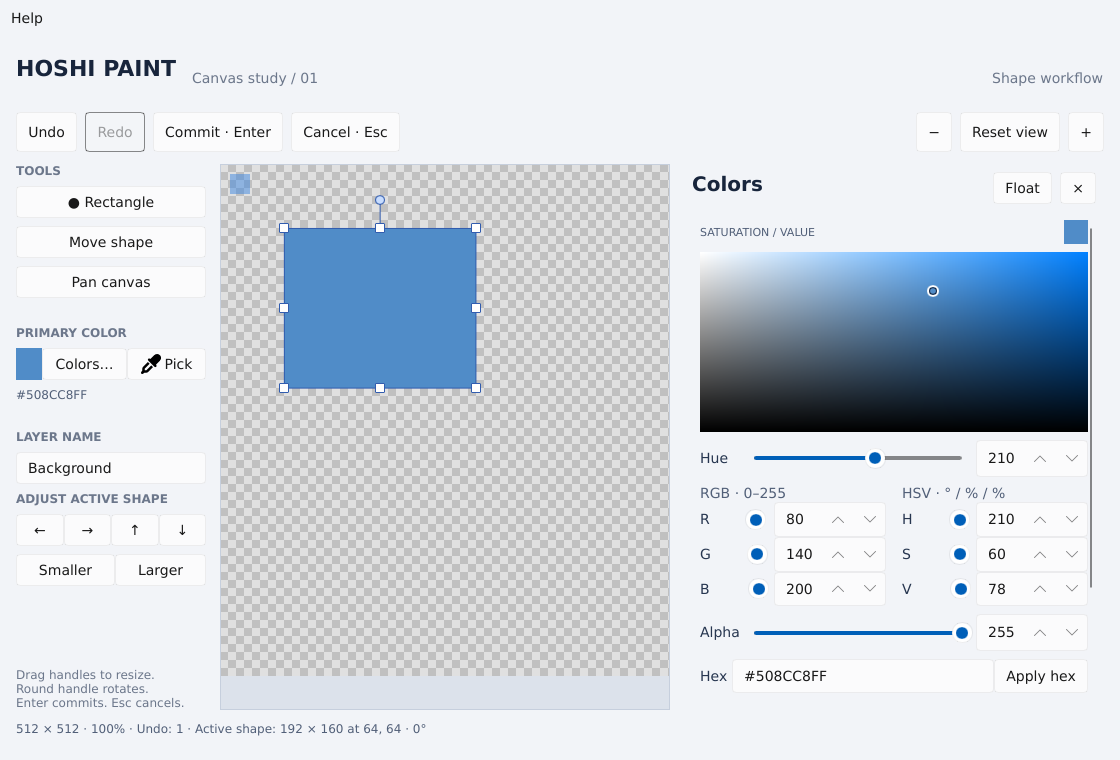
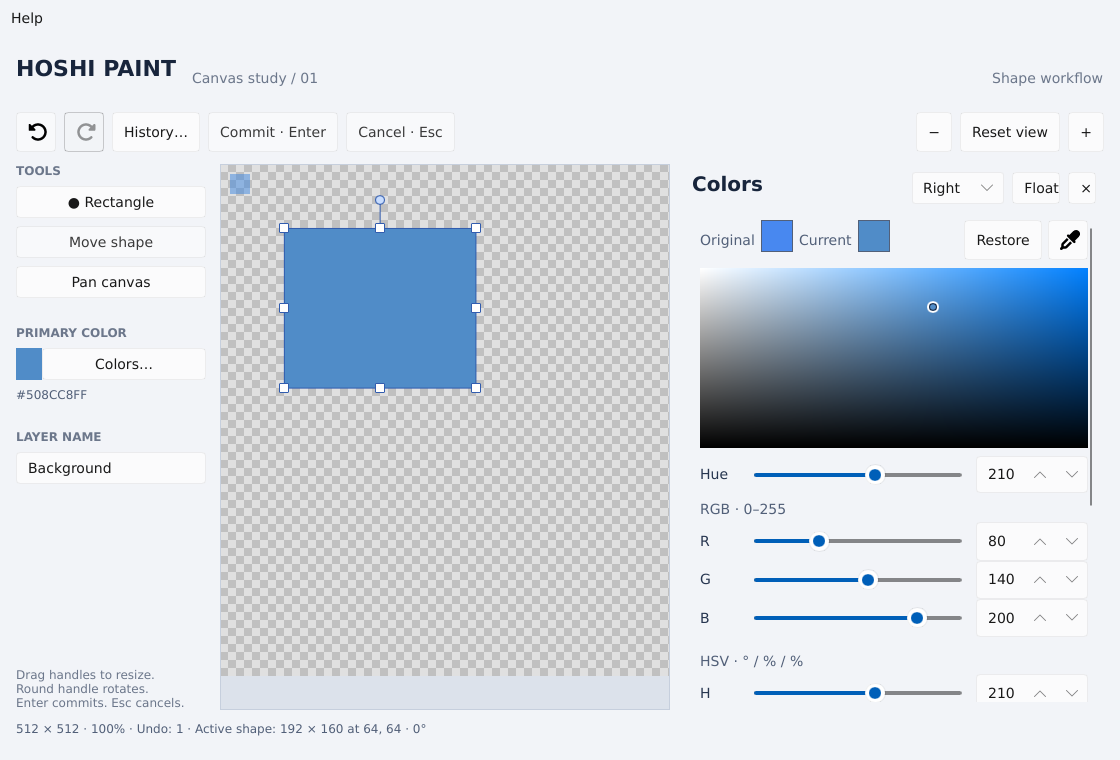
Preserve original colors and make narrow color controls readable

diff --git a/spikes/desktop-canvas/tests/color_comparison.rs b/spikes/desktop-canvas/tests/color_comparison.rs
@@ -1,0 +1,121 @@
+use hoshi_canvas_spike::create_app_with_colors;
+use hoshi_controller::Color;
+use i_slint_backend_testing::ElementHandle;
+use slint::{ComponentHandle, LogicalPosition, LogicalSize};
+
+fn slint_color(c: Color) -> slint::Color {
+    slint::Color::from_argb_u8(c.a, c.r, c.g, c.b)
+}
+
+#[test]
+fn original_survives_live_edits_and_docking_and_restore_keeps_shape_editable() {
+    slint::platform::set_platform(Box::new(i_slint_backend_testing::TestingBackend::new(
+        i_slint_backend_testing::TestingBackendOptions {
+            mock_time: true,
+            threading: false,
+            renderer_name: Some("software".into()),
+        },
+    )))
+    .unwrap();
+    let (ui, state, picker) = create_app_with_colors().unwrap();
+    ui.show().unwrap();
+    let original = Color::rgba(24, 80, 140, 96);
+    picker.invoke_set_rgba(24, 80, 140, 96);
+    ui.invoke_pointer_down(40.0, 40.0);
+    ui.invoke_pointer_move(140.0, 100.0);
+    ui.invoke_pointer_up(140.0, 100.0);
+    ui.invoke_show_colors();
+    let shape = state.borrow().document().active_shape().unwrap();
+    assert_eq!(picker.get_original_color(), slint_color(original));
+    picker.window().take_snapshot().unwrap();
+    let position = LogicalPosition::new(
+        picker.get_red_slider_left() + picker.get_red_slider_width() * 0.9,
+        picker.get_red_slider_top() + picker.get_red_slider_height() * 0.5,
+    );
+    picker
+        .window()
+        .dispatch_event(slint::platform::WindowEvent::PointerPressed {
+            position,
+            button: slint::platform::PointerEventButton::Left,
+        });
+    picker
+        .window()
+        .dispatch_event(slint::platform::WindowEvent::PointerReleased {
+            position,
+            button: slint::platform::PointerEventButton::Left,
+        });
+    assert_ne!(state.borrow().primary_color(), original);
+    assert_eq!(picker.get_original_color(), slint_color(original));
+    let restore =
+        ElementHandle::find_by_accessible_label(picker.as_ref(), "Restore original color")
+            .next()
+            .unwrap();
+    assert_eq!(restore.accessible_enabled(), Some(true));
+    restore.mock_single_click(slint::platform::PointerEventButton::Left);
+    assert_eq!(state.borrow().primary_color(), original);
+    assert_eq!(state.borrow().composite()[60 * 512 + 60], original);
+    assert_eq!(restore.accessible_enabled(), Some(false));
+    ui.invoke_set_colors_placement(1);
+    picker.invoke_set_hsv(120.0, 100.0, 100.0);
+    assert_eq!(state.borrow().primary_color(), Color::rgba(0, 255, 0, 96));
+    assert_eq!(ui.get_color_original(), slint_color(original));
+    ui.invoke_restore_original_color();
+    assert_eq!(state.borrow().primary_color(), original);
+    ui.invoke_set_colors_placement(0);
+    assert_eq!(picker.get_original_color(), slint_color(original));
+    assert_eq!(state.borrow().document().active_shape(), Some(shape));
+    assert_eq!(state.borrow().document().undo_len(), 0);
+    picker.invoke_close_picker();
+    picker.invoke_set_rgba(1, 2, 3, 255);
+    picker.set_hex_value("unapplied draft".into());
+    ui.invoke_show_colors();
+    assert_eq!(
+        picker.get_original_color(),
+        slint_color(Color::rgba(1, 2, 3, 255))
+    );
+    assert_eq!(picker.get_hex_value(), "#010203FF");
+    picker.window().take_snapshot().unwrap();
+    let hex = ElementHandle::find_by_accessible_label(picker.as_ref(), "Hex RGB or RGBA color")
+        .next()
+        .unwrap();
+    hex.mock_single_click(slint::platform::PointerEventButton::Left);
+    picker.set_hex_value("#ABC".into());
+    assert_eq!(state.borrow().primary_color(), Color::rgba(1, 2, 3, 255));
+    picker
+        .window()
+        .dispatch_event(slint::platform::WindowEvent::KeyPressed {
+            text: slint::platform::Key::Return.into(),
+        });
+    picker
+        .window()
+        .dispatch_event(slint::platform::WindowEvent::KeyReleased {
+            text: slint::platform::Key::Return.into(),
+        });
+    assert_eq!(
+        state.borrow().primary_color(),
+        Color::rgba(170, 187, 204, 255)
+    );
+    assert_eq!(
+        picker.get_original_color(),
+        slint_color(Color::rgba(1, 2, 3, 255))
+    );
+    // Narrow panels use one column, with readable aligned tracks rather than
+    // collapsed handles that can be mistaken for separate radio buttons.
+    picker.window().set_size(LogicalSize::new(380.0, 720.0));
+    picker.window().take_snapshot().unwrap();
+    assert!(picker.get_red_slider_width() > 170.0);
+    assert_eq!(picker.get_red_slider_left(), picker.get_green_slider_left());
+    assert_eq!(picker.get_red_slider_left(), picker.get_blue_slider_left());
+    assert_eq!(
+        picker.get_red_slider_width(),
+        picker.get_green_slider_width()
+    );
+    assert_eq!(
+        picker.get_red_slider_width(),
+        picker.get_blue_slider_width()
+    );
+    picker.invoke_restore_original();
+    assert_eq!(state.borrow().primary_color(), Color::rgba(1, 2, 3, 255));
+    assert!(state.borrow().document().active_shape().is_some());
+    assert_eq!(state.borrow().document().undo_len(), 0);
+}

diff --git a/spikes/desktop-canvas/src/colors.rs b/spikes/desktop-canvas/src/colors.rs
@@ -4,7 +4,12 @@ use hoshi_controller::{
     color::{self, Hsv},
 };
 use slint::ComponentHandle;
-use std::{cell::RefCell, rc::Rc, sync::mpsc::TryRecvError, time::Duration};
+use std::{
+    cell::{Cell, RefCell},
+    rc::Rc,
+    sync::mpsc::TryRecvError,
+    time::Duration,
+};
 
 fn synchronize(picker: &ColorPickerWindow, value: Color, override_hsv: Option<Hsv>) {
     let mut hsv = override_hsv.unwrap_or_else(|| color::color_to_hsv(value));
@@ -42,6 +47,8 @@ fn synchronize(picker: &ColorPickerWindow, value: Color, override_hsv: Option<Hs
     picker.set_saturation(hsv.saturation as f32);
     picker.set_brightness(hsv.value as f32);
     picker.set_hex_value(color::format_hex(value).into());
+    picker
+        .set_current_description(format!("Current color\n{}", describe_swatch(value, None)).into());
     picker.set_current_color(slint::Color::from_argb_u8(
         value.a, value.r, value.g, value.b,
     ));
@@ -52,6 +59,25 @@ pub(super) fn bind_picker(
     controller: SharedController,
 ) -> Result<Rc<ColorPickerWindow>, slint::PlatformError> {
     let picker = Rc::new(ColorPickerWindow::new()?);
+    let original = Rc::new(Cell::new(controller.borrow().primary_color()));
+    let (weak, reference) = (picker.as_weak(), original.clone());
+    picker.on_restore_original(move || {
+        if let Some(picker) = weak.upgrade() {
+            let color = reference.get();
+            picker.invoke_set_rgba(
+                color.r.into(),
+                color.g.into(),
+                color.b.into(),
+                color.a.into(),
+            );
+        }
+    });
+    let weak = picker.as_weak();
+    ui.on_restore_original_color(move || {
+        if let Some(picker) = weak.upgrade() {
+            picker.invoke_restore_original();
+        }
+    });
     let swatches = [
         (72, 136, 240, "Blue"),
         (232, 104, 92, "Coral"),
@@ -116,6 +142,7 @@ pub(super) fn bind_picker(
         }
     });
     let (main, weak, state) = (ui.as_weak(), picker.as_weak(), controller.clone());
+    let reference = original.clone();
     ui.on_set_colors_placement(move |placement| {
         if let (Some(ui), Some(p)) = (main.upgrade(), weak.upgrade()) {
             if ui.get_modal_visible() {
@@ -125,6 +152,9 @@ pub(super) fn bind_picker(
                 let mut c = state.borrow_mut();
                 c.pointer_up().expect("finish gesture before docking");
                 c.set_aspect_lock(false).expect("gesture ended");
+            }
+            if !ui.get_colors_visible() {
+                begin_comparison(&ui, &p, &reference, state.borrow().primary_color());
             }
             let placement = placement.clamp(0, 4);
             ui.set_colors_placement(placement);
@@ -160,7 +190,7 @@ pub(super) fn bind_picker(
     });
     synchronize(&picker, controller.borrow().primary_color(), None);
     picker.set_has_active_shape(controller.borrow().document().active_shape().is_some());
-    sync_docked(ui, &picker);
+    begin_comparison(ui, &picker, &original, original.get());
     let weak = picker.as_weak();
     ui.on_hide_colors(move || {
         if let Some(p) = weak.upgrade() {
@@ -196,10 +226,14 @@ pub(super) fn bind_picker(
         }
     });
     let (colors, main, state) = (picker.clone(), ui.as_weak(), controller.clone());
+    let reference = original.clone();
     ui.on_show_colors(move || {
         if let Some(ui) = main.upgrade() {
             if ui.get_modal_visible() {
                 return;
+            }
+            if !ui.get_colors_visible() {
+                begin_comparison(&ui, &colors, &reference, state.borrow().primary_color());
             }
             // Switching to our color window must preserve the editable preview,
             // even if native pointer release/capture has not settled yet.
@@ -429,7 +463,29 @@ fn describe_swatch(value: Color, name: Option<&str>) -> String {
     )
 }
 
+fn begin_comparison(
+    ui: &AppWindow,
+    picker: &ColorPickerWindow,
+    original: &Cell<Color>,
+    value: Color,
+) {
+    original.set(value);
+    // A new comparison also discards any hex draft that was never accepted.
+    synchronize(picker, value, None);
+    picker.set_error("".into());
+    picker.set_original_color(slint::Color::from_argb_u8(
+        value.a, value.r, value.g, value.b,
+    ));
+    picker.set_original_description(
+        format!("Original color\n{}", describe_swatch(value, None)).into(),
+    );
+    sync_docked(ui, picker);
+}
+
 fn sync_docked(ui: &AppWindow, picker: &ColorPickerWindow) {
+    ui.set_color_original(picker.get_original_color());
+    ui.set_color_original_description(picker.get_original_description());
+    ui.set_color_current_description(picker.get_current_description());
     ui.set_color_r(picker.get_red());
     ui.set_color_g(picker.get_green());
     ui.set_color_b(picker.get_blue());

diff --git a/spikes/desktop-canvas/tests/docking.rs b/spikes/desktop-canvas/tests/docking.rs
@@ -37,7 +37,10 @@ fn colors_float_dock_reopen_and_pointer_edits_share_one_editable_shape() {
     assert!(ui.get_colors_docked() && ui.get_colors_visible());
     assert!(!picker.window().is_visible());
     ui.window().take_snapshot().unwrap();
-    assert!(ui.get_docked_red_width() > 10.0);
+    assert!(
+        ui.get_docked_red_width() > 170.0,
+        "narrow dock must have a readable full-width slider"
+    );
     click(
         ui.window(),
         ui.get_docked_red_left() + ui.get_docked_red_width() * 0.9,
@@ -47,7 +50,26 @@ fn colors_float_dock_reopen_and_pointer_edits_share_one_editable_shape() {
     assert_ne!(selected.r, 12, "docked slider must route actual input");
     assert_eq!(state.borrow().composite()[60 * 512 + 60], selected);
     assert_eq!(picker.get_red(), i32::from(selected.r));
+    // Narrow panels stack channels; scroll their body to the palette instead
+    // of assuming every control fits in the visible height.
+    let viewport = state.borrow().viewport();
+    ui.window()
+        .dispatch_event(slint::platform::WindowEvent::PointerScrolled {
+            position: slint::LogicalPosition::new(
+                ui.get_colors_host_left() + ui.get_colors_host_width() - 10.0,
+                ui.get_colors_host_top() + 100.0,
+            ),
+            delta_x: 0.0,
+            delta_y: -500.0,
+        });
+    i_slint_backend_testing::mock_elapsed_time(std::time::Duration::from_millis(1000));
+    assert_eq!(
+        state.borrow().viewport(),
+        viewport,
+        "panel scrolling must not pan the canvas"
+    );
     let snapshot = ui.window().take_snapshot().unwrap();
+    assert!(ui.get_docked_swatches_top() + 40.0 < snapshot.height() as f32);
     let x = ui.get_docked_swatches_left() as u32 + 20;
     let y = ui.get_docked_swatches_top() as u32 + 20;
     let pixel = snapshot.as_slice()[(y * snapshot.width() + x) as usize];

diff --git a/spikes/desktop-canvas/src/lib.rs b/spikes/desktop-canvas/src/lib.rs
@@ -87,6 +87,10 @@ slint::slint! {
         in property <float> color-h;
         in property <float> color-s;
         in property <float> color-v;
+        in property <color> color-original;
+        in property <string> color-original-description;
+        in property <string> color-current-description;
+        callback restore-original-color();
         in property <string> color-hex;
         in property <string> color-error;
         in property <image> color-sv;
@@ -194,7 +198,6 @@ slint::slint! {
                             Rectangle { background: root.primary-color; }
                         }
                         Button { text: "Colors…"; clicked => { root.show-colors(); } }
-                        Button { icon: @image-url("../icons/eye-dropper.svg"); width: 40px; accessible-label: "Color Picker"; Tooltip { text: @markdown("Color Picker"); } clicked => { root.pick-screen(); } }
                     }
                     Text { text: root.primary-hex; color: #526079; font-size: 12px; }
                     Rectangle { height: 12px; }
@@ -346,6 +349,10 @@ slint::slint! {
                     hue: root.color-h; saturation: root.color-s; brightness: root.color-v;
                     hex-value: root.color-hex; error: root.color-error;
                     sv-image: root.color-sv; current-color: root.primary-color;
+                    original-color: root.color-original;
+                    original-description: root.color-original-description;
+                    current-description: root.color-current-description;
+                    restore-original => { root.restore-original-color(); }
                     has-active-shape: root.has-shape; screen-picking: root.screen-picking;
                     set-rgba(r,g,b,a) => { root.edit-rgba(r,g,b,a); }
                     set-hsv(h,s,v) => { root.edit-hsv(h,s,v); }

diff --git a/spikes/desktop-canvas/tests/tooltips.rs b/spikes/desktop-canvas/tests/tooltips.rs
@@ -29,11 +29,6 @@ fn swatch_hover_opens_rich_tooltip_without_changing_selection_or_blocking_clicks
             .next()
             .is_some()
     );
-    assert!(
-        ElementHandle::find_by_accessible_label(&ui, "Color Picker")
-            .next()
-            .is_some()
-    );
     let tooltip_count =
         || ElementHandle::find_by_accessible_label(picker.as_ref(), &swatch.description).count();
     assert_eq!(tooltip_count(), 0);

diff --git a/docs/SPIKE_RESULTS.md b/docs/SPIKE_RESULTS.md
@@ -79,8 +79,8 @@ does not complete UI-1 or the v0.0.0 release acceptance scenario.
 
 ## Shift scaling and color controls
 
-The current revision passes 66 Rust tests locally (22 core integration, 1 core reference unit,
-30 controller, 9 rendered UI scenarios, 4 adapter/result unit tests), formatting and Clippy. Shift locks corner
+The current revision passes 67 Rust tests locally (22 core integration, 1 core reference unit,
+30 controller, 10 rendered UI scenarios, 4 adapter/result unit tests), formatting and Clippy. Shift locks corner
 scaling to the drag-start aspect ratio, including rotated/zoomed shapes; edge
 handles remain free. The modeless Colors panel provides RGB, HSV, SV area, hue,
 alpha, hex and square swatches, with live preview. One native Color Picker
@@ -141,3 +141,20 @@ measurements, not physical pointer-to-photon latency or a platform FPS guarantee
 ![Floating History with redo](images/history.png)
 
 ![Rich swatch tooltip](images/swatch-tooltip.png)
+
+## Original color comparison and narrow panels
+
+Apply hex is removed; Enter still accepts a typed hex value. Colors now shows
+Original/Current RGBA previews on transparency checkerboards and a Restore
+action. Original is captured on opening Colors, remains stable during live RGB,
+HSV, hex and sampling edits and Dock/Float transitions, and is refreshed only
+when a new panel session opens. Restoring preserves the editable shape and its
+geometry/history state. A rendered regression exercises a real slider and
+Restore click, alpha preservation, docking, reopening, unapplied hex drafts, and
+Enter acceptance.
+
+The duplicate main-window sampling button is removed: Colors… opens the panel;
+Color Picker remains inside it. At narrow widths RGB/HSV groups stack vertically
+with full-width aligned tracks, avoiding the collapsed slider handles that
+looked like misaligned radio buttons. Tests cover narrow track geometry and
+scrolling the body to select palette swatches without panning the canvas.

diff --git a/spikes/desktop-canvas/README.md b/spikes/desktop-canvas/README.md
@@ -51,12 +51,20 @@ is already isolated; use the existing checkout rather than creating a worktree.
 - Open Colors… before drawing or while a shape is active. The picker supplies
   RGB (0–255), HSV (degrees/percentages), a saturation/value area, hue slider,
   alpha (0 transparent,255 opaque), square color swatches, and hex RGB/RGBA. Changes apply live.
-  Hex uses #RGB,#RGBA,#RRGGBB or #RRGGBBAA; press Enter or Apply.
+  Hex uses #RGB,#RGBA,#RRGGBB or #RRGGBBAA; press Enter to apply a typed hex value.
+- **Original / Current** swatches compare the starting RGBA color with live edits,
+  including transparency on a checkerboard. **Restore** returns to the original
+  color without committing/cancelling the shape or adding history. The reference
+  is captured when Colors opens, survives Dock/Float/location changes, and starts
+  fresh after closing/reopening. Unaccepted hex drafts are discarded on reopening.
+- Narrow Colors panels stack RGB and HSV vertically, preserving full-width slider
+  tracks and aligned labels/numeric fields. Wide panels retain two columns.
+  The scrolling body keeps all channels, alpha, hex and palette controls reachable.
 - The picker says **Editing the active shape** while resize handles are visible.
   After Enter or starting another shape it says **Next drawing color**: existing
   pixels remain unchanged, and the chosen color applies to the next drawing.
-- **Color Picker** (eyedropper icon) in the main window or Colors start the same native
-  screen sampler. Select a pixel anywhere the desktop allows, including the
+- **Colors…** is the single main-window entry to the color panel. Its **Color
+  Picker** icon starts the native screen sampler. Select a pixel anywhere the desktop allows, including the
   canvas. The result is opaque RGB; Escape cancels without changing the color.
   Picking is one-shot and keeps the current drawing tool and editable shape.
   RGB/HSV/hex edits can immediately refine the result, repeatedly.

diff --git a/docs/BACKLOG.md b/docs/BACKLOG.md
@@ -87,7 +87,7 @@ until the decision is recorded. A bounded evaluation spike is allowed.
 ## Current validation
 
 See [SPIKE_RESULTS.md](SPIKE_RESULTS.md) for the newer Rust 1.99.1 desktop
-experiment: 66 Rust tests pass locally, including nine rendered UI
+experiment: 67 Rust tests pass locally, including ten rendered UI
 scenarios; real Linux desktop software-rendering smoke passes. The earlier core
 baseline below is retained as historical cross-platform evidence.
 
